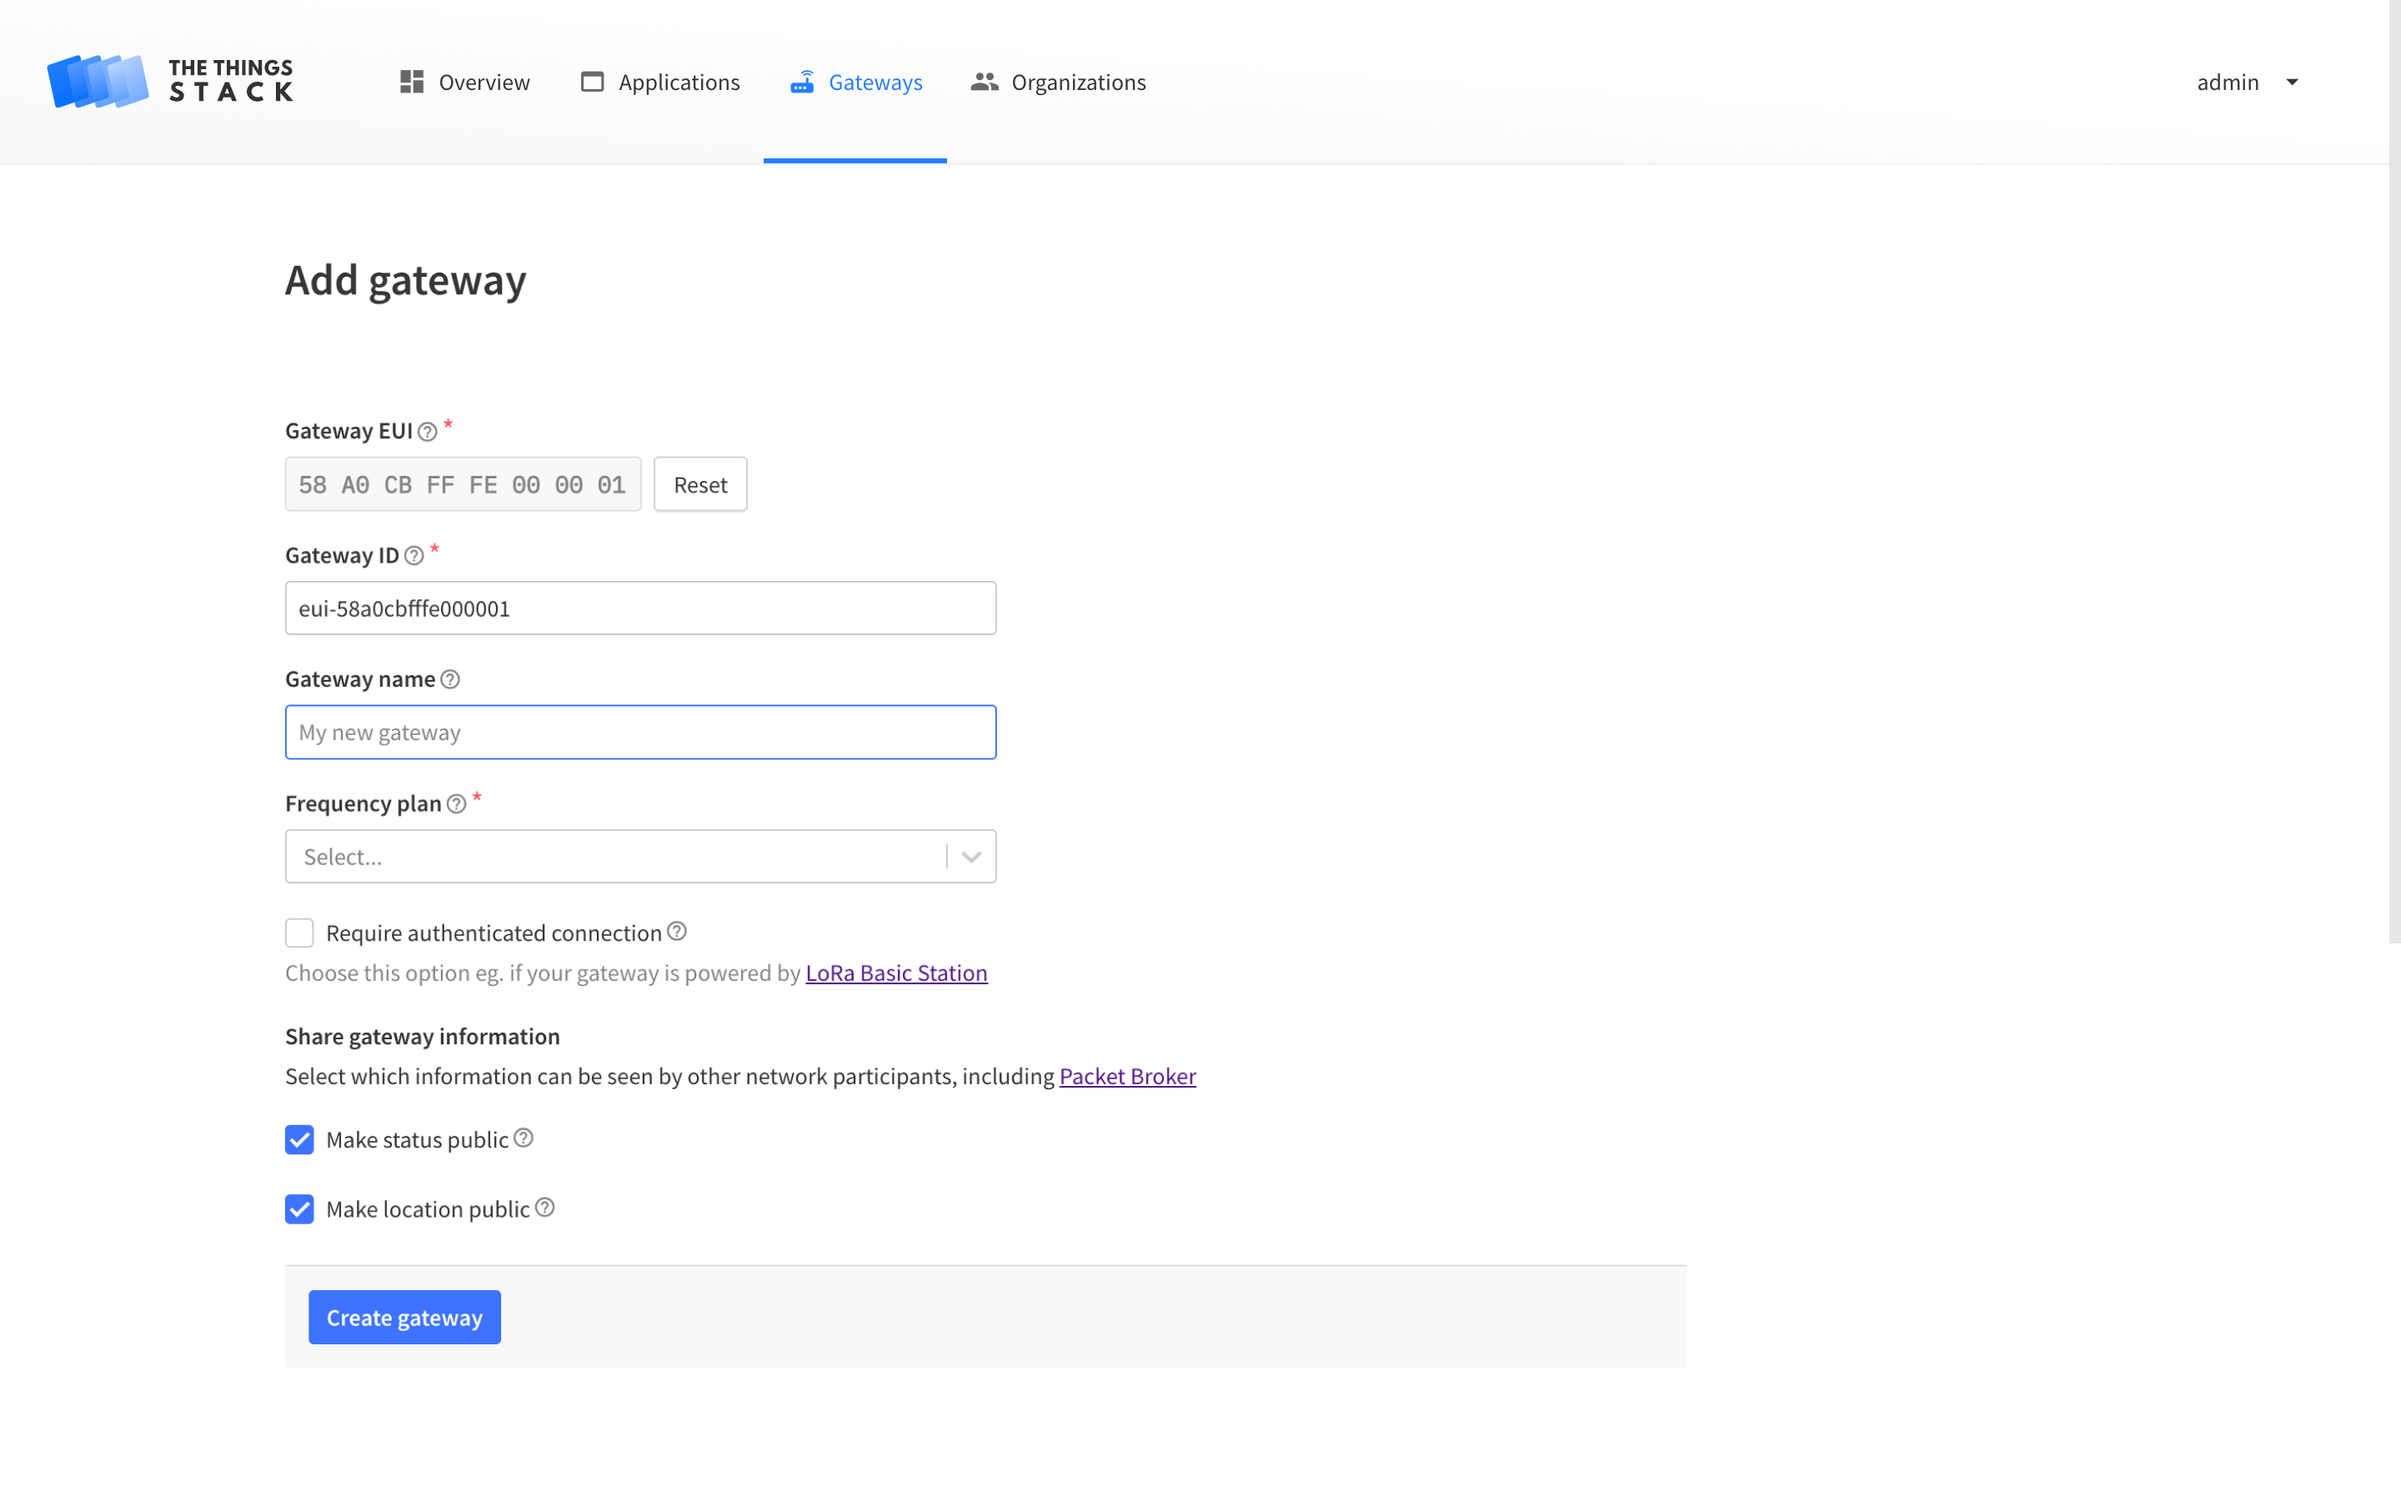
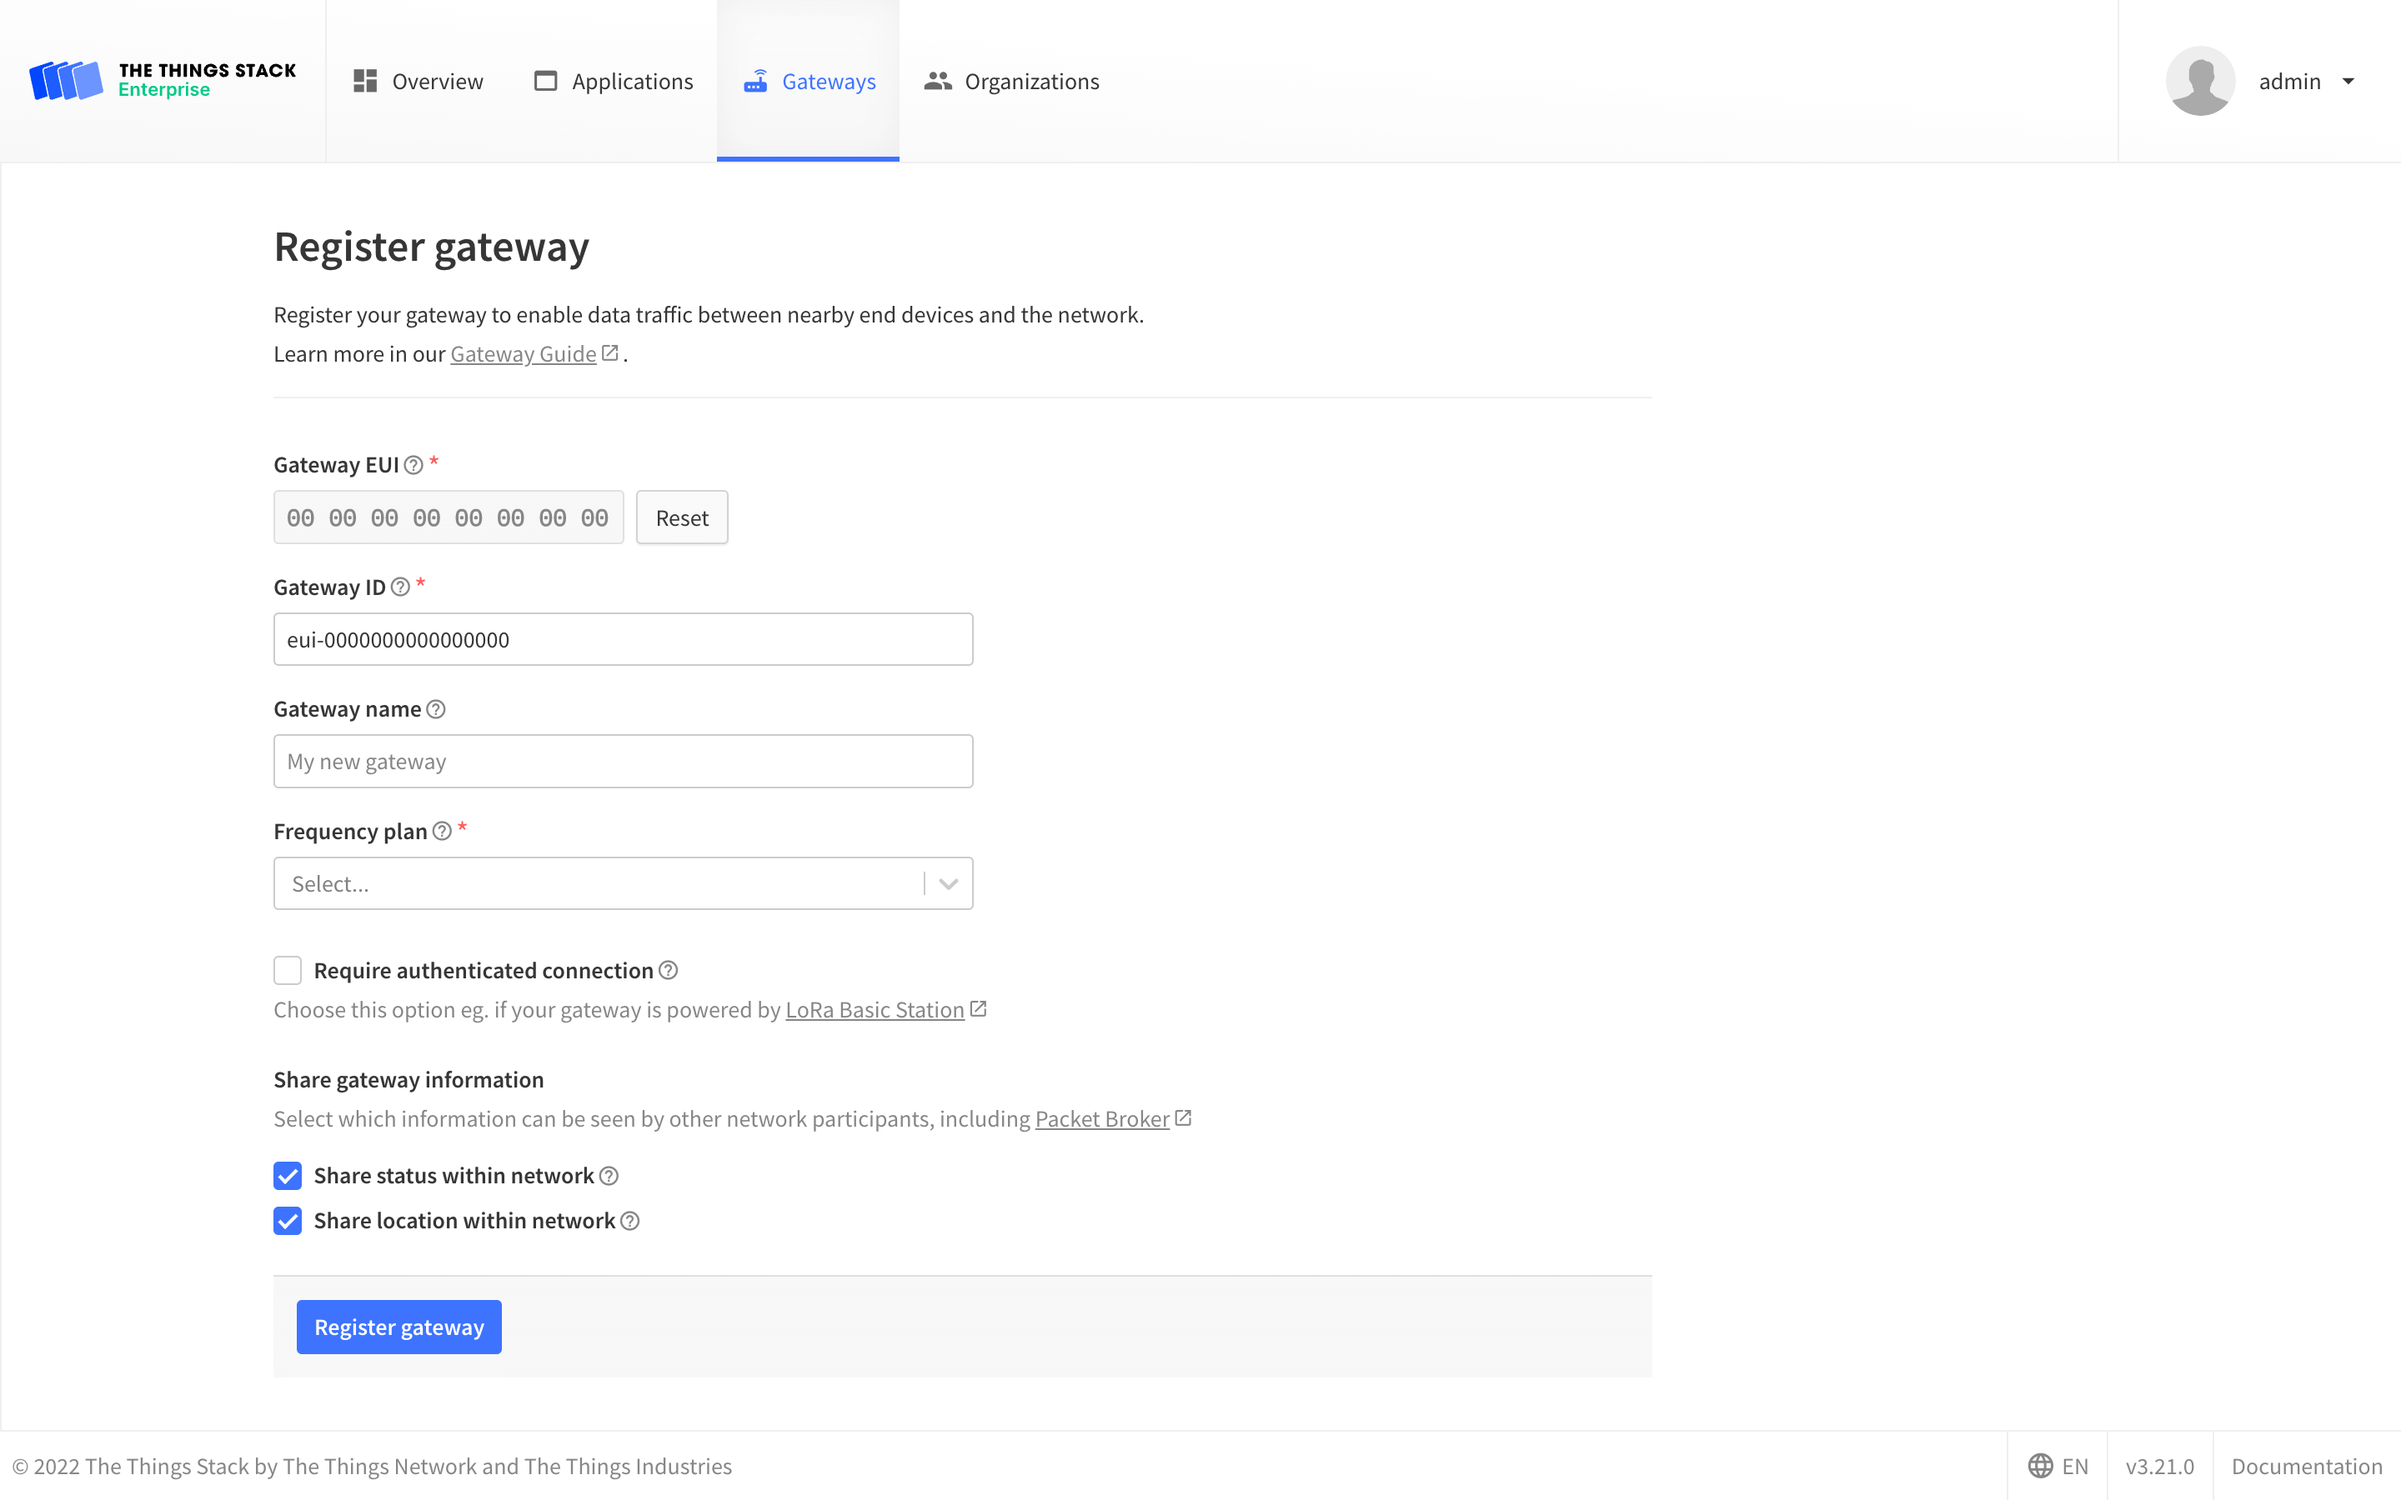
doc: Update gateway onboarding

diff --git a/doc/content/gateways/adding-gateways/_index.md b/doc/content/gateways/adding-gateways/_index.md
@@ -25,19 +25,24 @@ Adding gateways using the Console or the CLI is usually most convenient, so thos
 
 ## Adding Gateways using the Console
 
-Go to **Gateways** in the top menu, and click **+ Add Gateway** to reach the gateway registration page.
+Go to **Gateways** in the top menu, and click **+ Register Gateway** to reach the gateway registration page.
 
-Fill the **Gateway EUI** and click **Confirm**.
 
-{{< figure src="gateway-add.png" alt="Gateway add" >}}
+
+
+Fill the **Gateway EUI** and click **Confirm** or **Continue without EUI**.
 
 Depending of weather the **Gateway EUI** is claimable you will either be shown the claiming form or the manual registration form.
 
-On the manual registration form fill in the **Frequency Plan**, The other fields are optional or pre filled. Click **Create Gateway** to finish.
+{{< note >}}Claiming may not be possible of your version of The Thing Stack, if so you will see the manual registration form by default.{{</ note >}}
+
+{{< figure src="gateway-add.png" alt="Gateway add" >}}
+
+On the manual registration form fill in the **Frequency Plan** and the **Gateway ID** if it was not pre filled, The other fields are optional. Click **Register Gateway** to finish.
 
 {{< figure src="gateway-creation.png" alt="Gateway creation" >}}
 
-On claiming form fill in the **Authentication Code**, **Gateway ID** and the **Frequency Plan**. Click **Create Gateway** to finish.
+On claiming form fill in the **Authentication Code**, **Gateway ID** and the **Frequency Plan**. Click **Claim Gateway** to finish.
 
 {{< figure src="gateway-claim.png" alt="Gateway claiming" >}}
 
